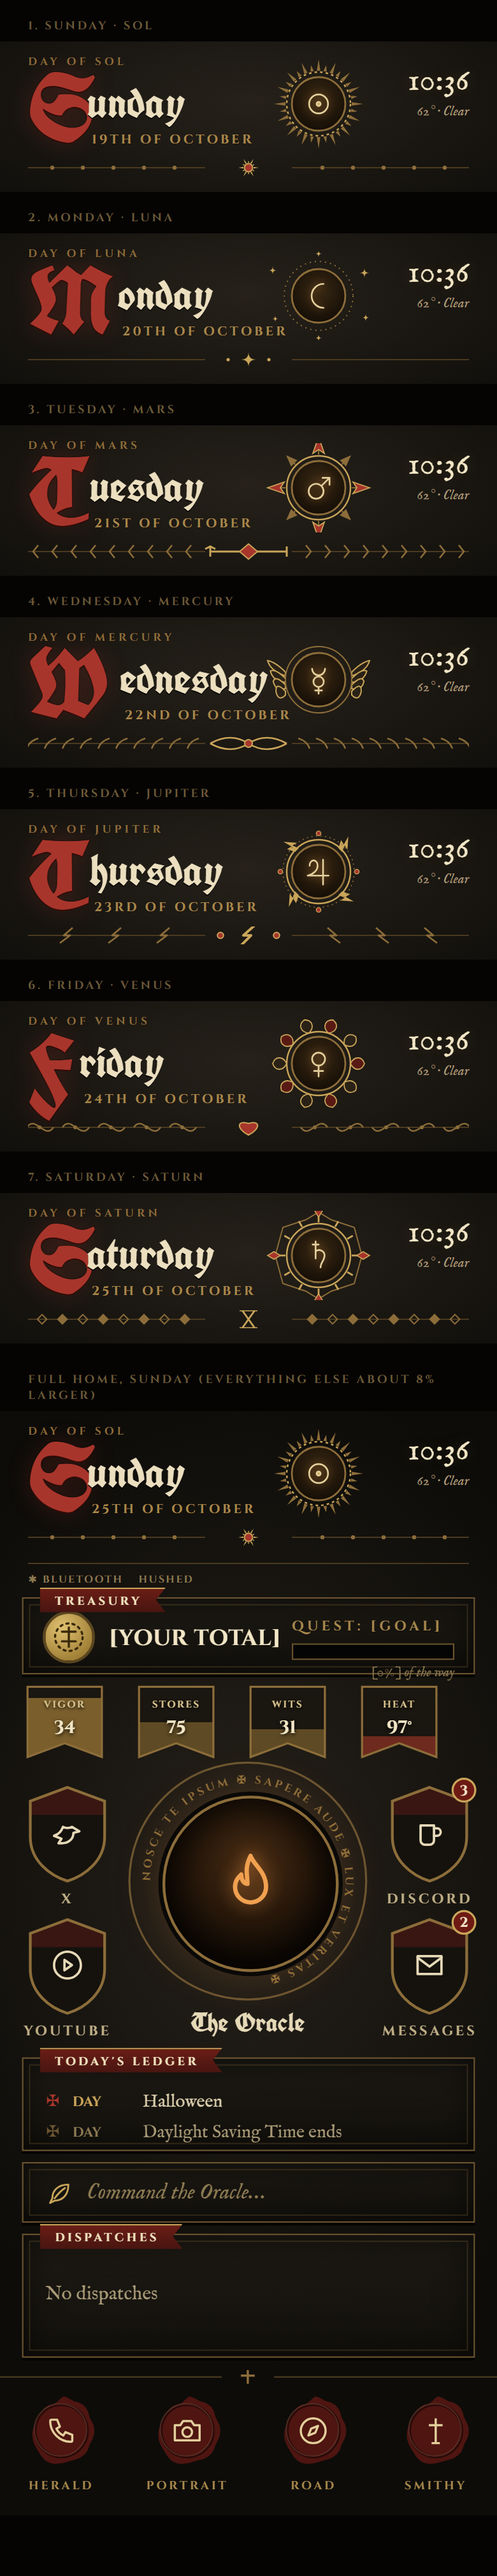
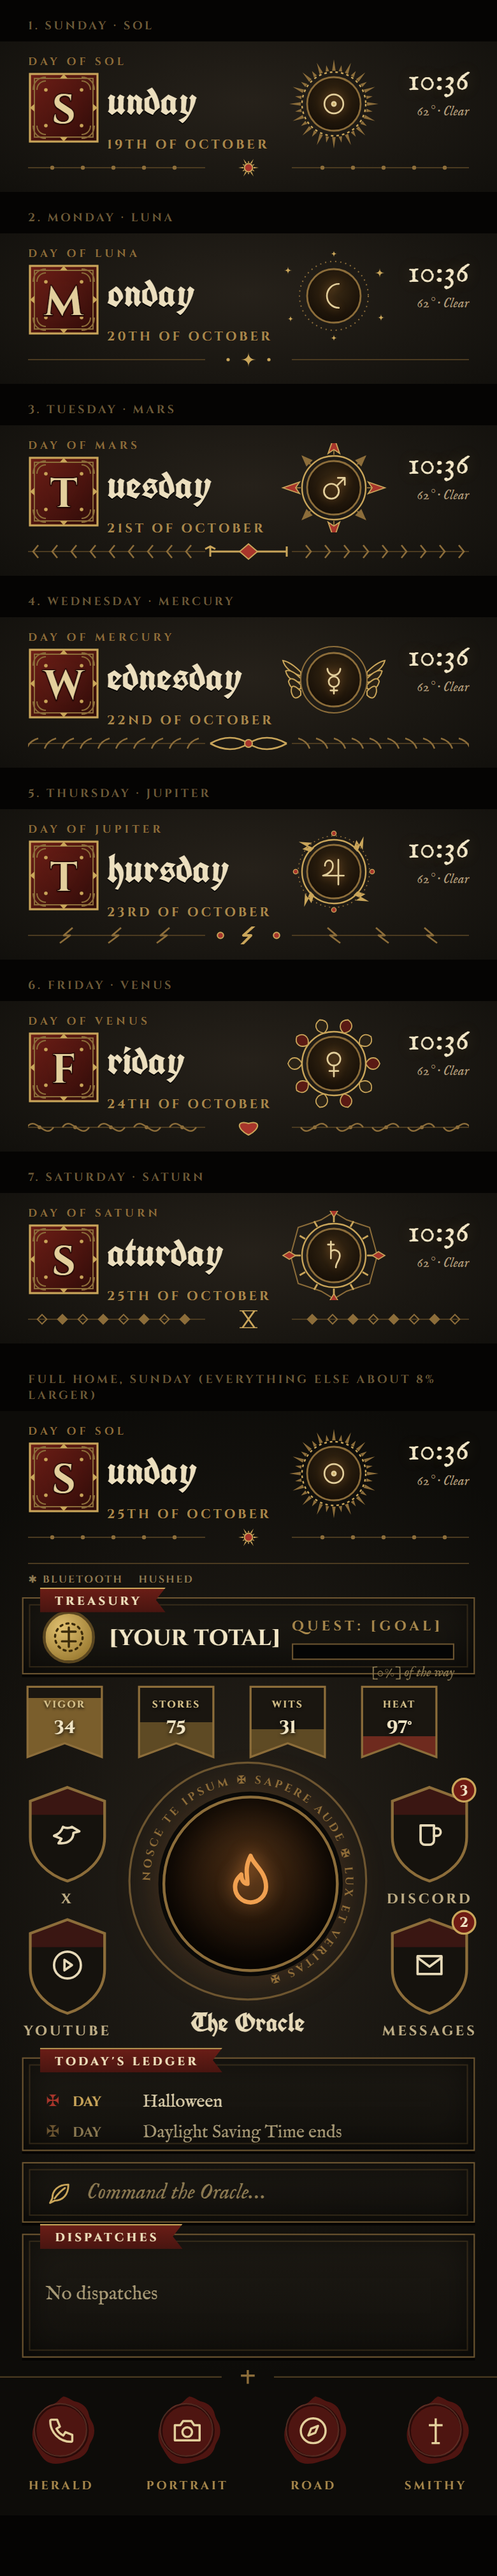
T4-header: illuminated square drop cap (owner choice)

diff --git a/docs/design/T4-header.html b/docs/design/T4-header.html
@@ -15,9 +15,9 @@ body{margin:0;background:#050403;width:390px;font-family:'IM Fell English',Georg
 .frame{position:relative;width:390px;height:118px;overflow:hidden;background:radial-gradient(90% 120% at 50% 40%,#26211a 0%,#0d0c09 90%),#0a0907}
 .hd{position:absolute;top:10px;left:22px;right:22px;height:76px}
 .dc{position:absolute;left:0;top:14px;font-family:UnifrakturCook,serif;font-size:74px;line-height:.78;color:#a8352b;text-shadow:0 0 1px #000,0 1px 0 #3a0e0a,0 0 18px rgba(168,53,43,.28)}
-.nm{position:absolute;top:21px;font-family:UnifrakturCook,serif;font-size:34px;line-height:1;color:#ecdfbf;text-shadow:0 1px 0 #000}
+.nm{position:absolute;top:21px;font-family:UnifrakturCook,serif;font-size:31px;line-height:1;color:#ecdfbf;text-shadow:0 1px 0 #000}
 .pl{position:absolute;left:0;top:0;font-family:Cinzel,serif;font-size:8.5px;font-weight:700;letter-spacing:.3em;color:#8c6d3a;text-transform:uppercase;white-space:nowrap}
-.dt{position:absolute;top:60px;font-family:Cinzel,serif;font-size:10px;font-weight:700;letter-spacing:.2em;color:#a8884c;text-transform:uppercase;white-space:nowrap}
+.dt{position:absolute;top:64px;font-family:Cinzel,serif;font-size:10px;font-weight:700;letter-spacing:.2em;color:#a8884c;text-transform:uppercase;white-space:nowrap}
 .med{position:absolute;top:2px;width:88px;height:70px}
 .tm{position:absolute;right:0;top:9px;text-align:right}
 .tm .t{font-size:25px;line-height:1;color:#f2e6c6;text-shadow:0 0 12px rgba(201,165,90,.22)}
@@ -121,16 +121,24 @@ var DAYS=[
  ['sol','Sunday','S','unday','Sol'],['luna','Monday','M','onday','Luna'],['mars','Tuesday','T','uesday','Mars'],
  ['mercury','Wednesday','W','ednesday','Mercury'],['jupiter','Thursday','T','hursday','Jupiter'],
  ['venus','Friday','F','riday','Venus'],['saturn','Saturday','S','aturday','Saturn']];
-var CAPW={W:70,M:68,T:46,F:38,S:44};  /* drop-cap widths in px, tuned by eye */
+var CAPW={W:56,M:56,T:56,F:56,S:56};  /* drop-cap widths in px, tuned by eye */
+function capTile(ch){
+ var vine='<path d="M4 14C4 8 8 4 14 4M7 14C7 10 10 7 14 7" stroke="'+GD+'" stroke-width="1"/><circle cx="14" cy="14" r="1.4" fill="'+G+'"/>';
+ var corners=vine+'<g transform="translate(56 0) scale(-1 1)">'+vine+'</g><g transform="translate(0 56) scale(1 -1)">'+vine+'</g><g transform="translate(56 56) scale(-1 -1)">'+vine+'</g>';
+ return '<svg class="dc" width="56" height="56" viewBox="0 0 56 56" fill="none" aria-hidden="true"><defs><linearGradient id="ct" x1="0" y1="0" x2="1" y2="1"><stop offset="0" stop-color="#6e1f17"/><stop offset="1" stop-color="#2e0c09"/></linearGradient></defs>'+
+ '<rect x="1.5" y="1.5" width="53" height="53" fill="url(#ct)" stroke="'+G+'" stroke-width="1.6"/><rect x="5" y="5" width="46" height="46" stroke="'+GD+'" stroke-width="1"/>'+corners+
+ '<path d="M28 1.5L31 5H25Z M28 54.5L31 51H25Z M1.5 28L5 25V31Z M54.5 28L51 25V31Z" fill="'+G+'"/>'+
+ '<text x="28" y="40" text-anchor="middle" font-family="Cinzel,serif" font-weight="700" font-size="32" fill="'+GL+'" stroke="#1a0604" stroke-width=".8" paint-order="stroke">'+ch+'</text></svg>';
+}
 function header(d,time,weather,datestr){
  var k=d[0],dcw=CAPW[d[2]]||42;
  return '<div class="hd">'+
   '<div class="pl">Day of '+d[4]+'</div>'+
-  '<div class="dc">'+d[2]+'</div>'+
-  '<div class="nm" style="left:'+(dcw+2)+'px">'+d[3]+'</div>'+
+  capTile(d[2])+
+  '<div class="nm" style="left:'+(dcw+6)+'px">'+d[3]+'</div>'+
   '<div class="dt" style="left:'+(dcw+6)+'px">'+datestr+'</div>'+
   '<div class="abs" style="left:'+(dcw+3)+'px;right:96px;top:0;height:72px">'+'</div>'+
-  '<div class="med" style="left:auto;position:absolute;left:'+(206-22)+'px">'+medallion(k)+'</div>'+
+  '<div class="med" style="left:auto;position:absolute;left:'+196+'px">'+medallion(k)+'</div>'+
   '<div class="tm"><div class="t">'+time+'</div><div class="w">'+weather+'</div></div>'+
  '</div>'+rule(k);
 }
